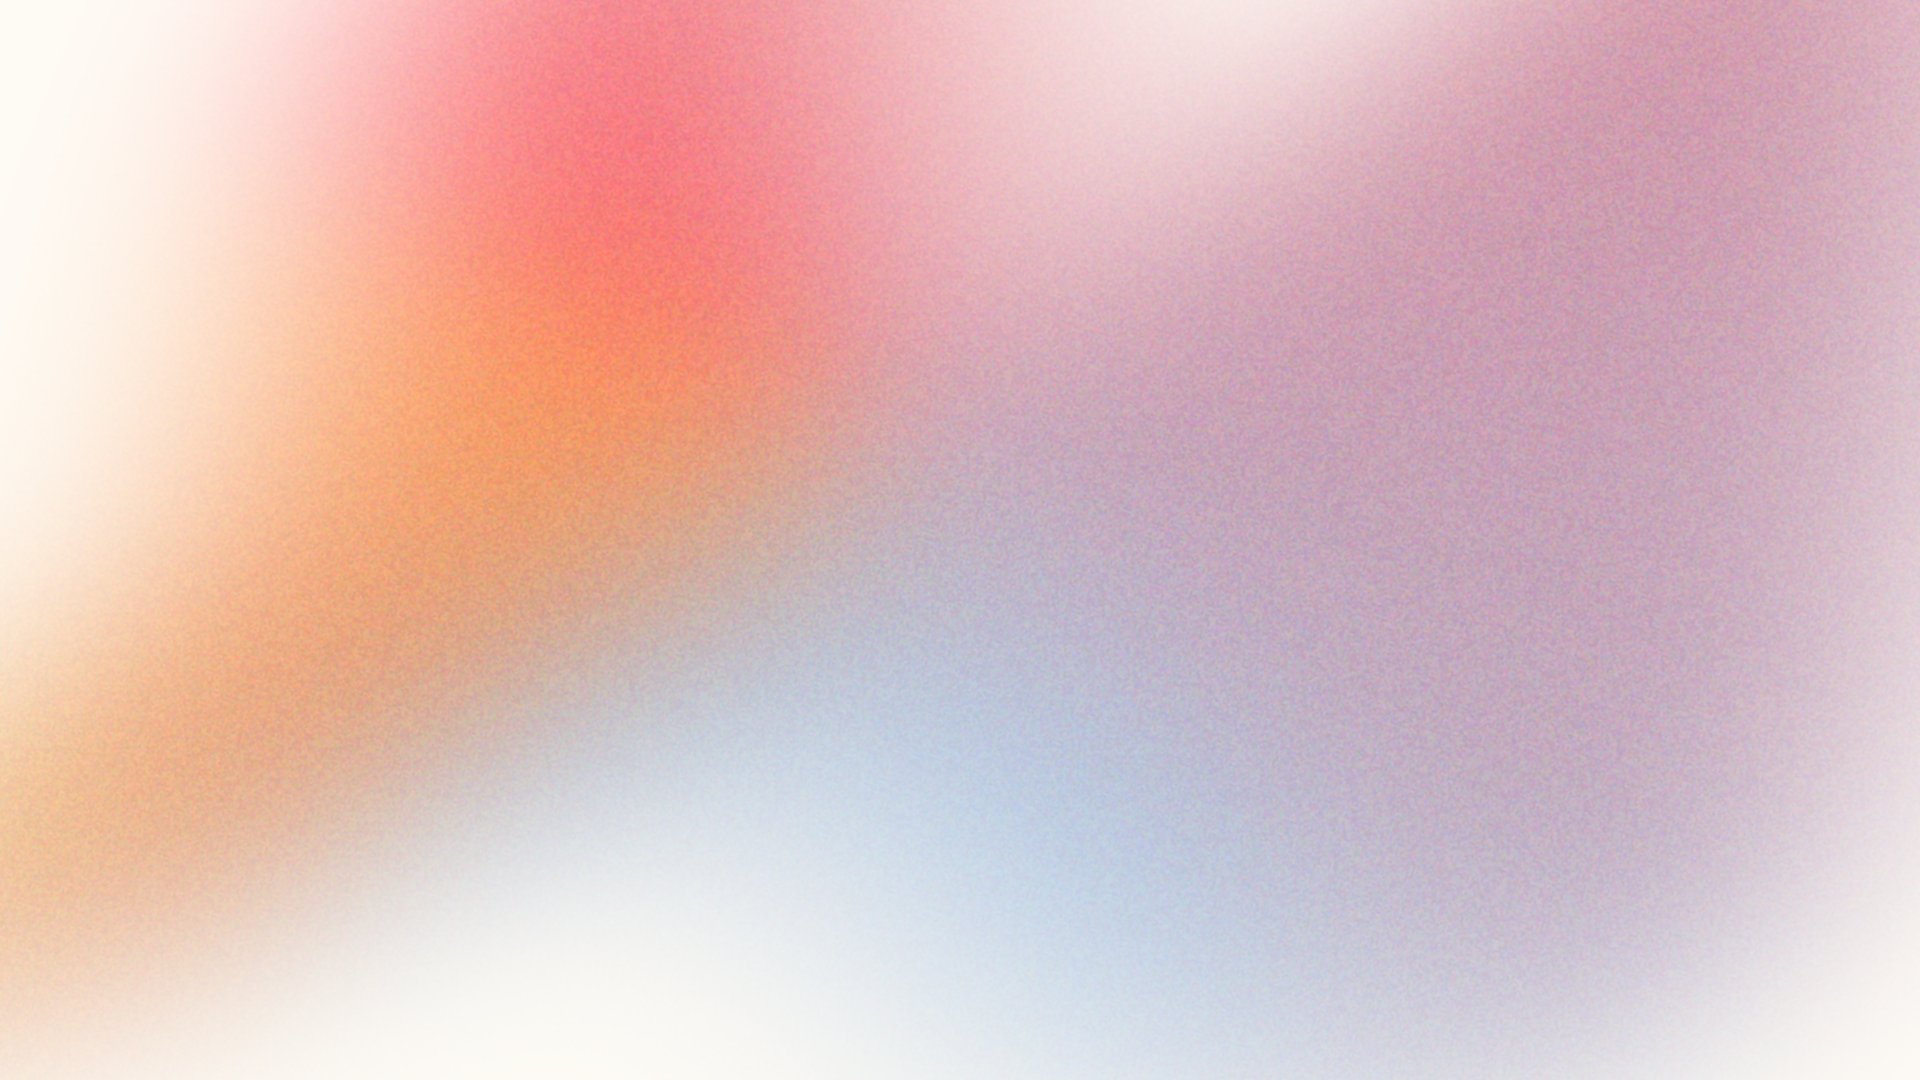
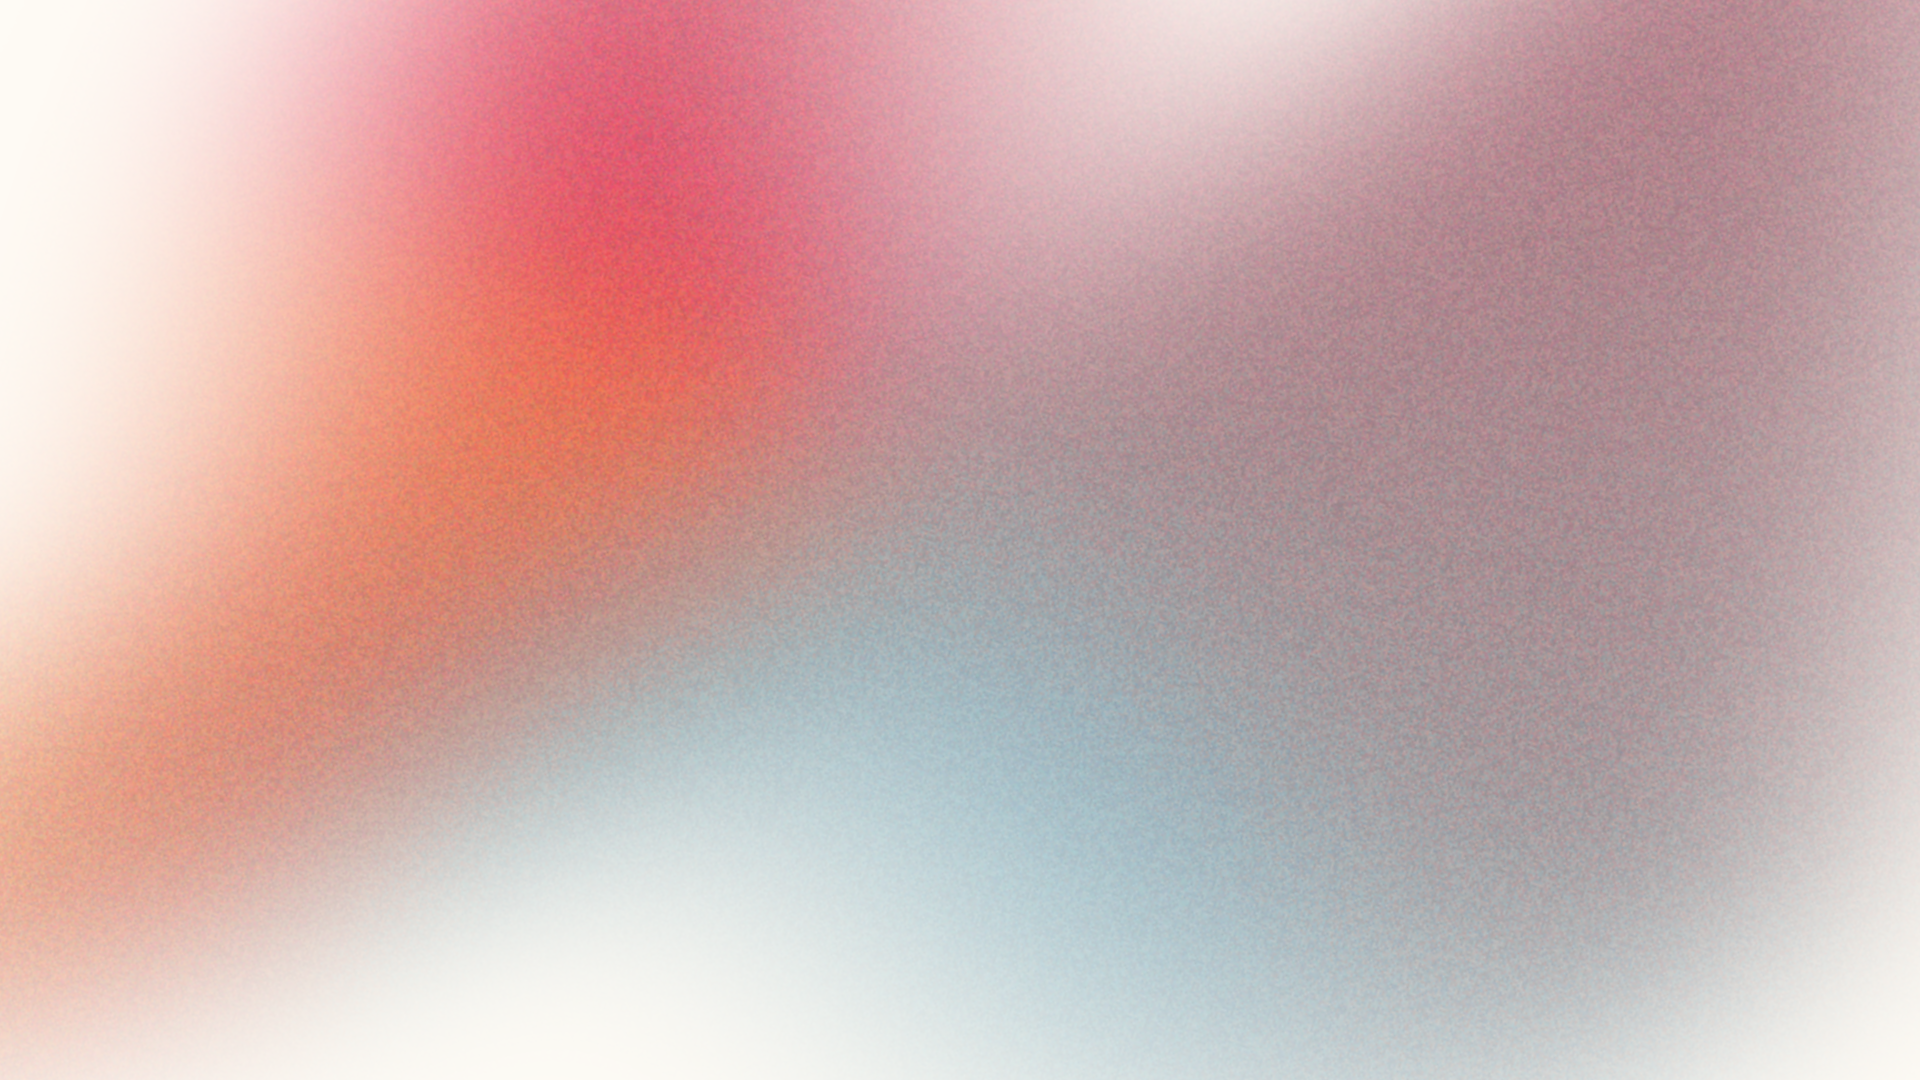
Setup the final layout of the homepage (desktop and mobile)

diff --git a/componenets/HomePost.tsx b/componenets/HomePost.tsx
@@ -23,24 +23,26 @@ export default function HomePost({ post }: { post: Post }) {
   return (
     <>
       {post && (
-        <div className='col-span-2 mx-auto h-fit bord rounded-br-xl'>
-          <p className='float-end w-1/5 block bg-cyan-800 pr-4 text-end'>
-            Latest
-          </p>
-          <div className='w-full abstract h-[20vh] rounded-tl-xl'></div>
-          <Link href={`/posts/${post.id}`}>
-            <h2 className='sm:text-4xl text-2xl px-4 py-2 title'>{title}</h2>
-          </Link>
-          <div className='p-4'>
-            <p className='sm:text-xl hidden sm:block'>{post.body}</p>
-            <p className='sm:text-xl block sm:hidden'>{body}</p>
+        <>
+          <div className='col-span-2 mx-auto h-fit bord rounded-br-xl'>
+            <p className='float-end w-1/5 block bg-cyan-800 pr-4 text-end'>
+              Latest
+            </p>
+            <div className='w-full abstract h-[25vh] rounded-tl-xl'></div>
+            <Link href={`/posts/${post.id}`}>
+              <h2 className='sm:text-4xl text-2xl px-4 py-2 title'>{title}</h2>
+            </Link>
+            <div className='px-4 py-8'>
+              <p className='sm:text-xl hidden sm:block'>{post.body}</p>
+              <p className='sm:text-2xl block sm:hidden'>{body}</p>
+            </div>
+            <HashGrid
+              hashtags={hashtags}
+              visibility={true}
+              handleClick={handleHashtagClick}
+            />
           </div>
-          <HashGrid
-            hashtags={hashtags}
-            visibility={true}
-            handleClick={handleHashtagClick}
-          />
-        </div>
+        </>
       )}
       {!post && <p>There is no content to display</p>}
     </>

diff --git a/pages/index.tsx b/pages/index.tsx
@@ -37,14 +37,14 @@ export default function Home({
       .map(([tag, count]) => ({ tag, count }))
       .sort((a, b) => b.count - a.count)
       .map(({ tag }) => tag)
-      .slice(0, 30);
+      .slice(0, 20);
   }, [otherPosts]);
 
   const handleHashtagClick = (tag: string) => {
     if (hashtag === tag) {
-      router.push({ pathname: '/', query: {} });
+      router.push('/#other');
     } else {
-      router.push({ pathname: '/', query: { hashtag: tag } });
+      router.push(`/?hashtag=${tag}#other`);
     }
   };
 
@@ -56,13 +56,15 @@ export default function Home({
           handleHashtagClick={handleHashtagClick}
         />
         <Container>
-          <div className='flex-col justify-around w-1/3 sm:flex hidden '>
-            <div>
-              <Logo />
-              <UserButtons />
-              <SearchBar handleClick={handleHashtagClick} />
-            </div>
-            <h2 className='m-4'>Buzzing right now:</h2>
+          <div
+            id='lateral'
+            className='sticky top-0 flex-col justify-evenly w-1/3 h-screen md:flex hidden '
+          >
+            <Logo />
+            <UserButtons />
+            <SearchBar handleClick={handleHashtagClick} />
+
+            <h2 className='mx-4'>Buzzing right now:</h2>
             <HashGrid
               hashtags={popularHashtags}
               visibility={true}

diff --git a/componenets/PostsContainer.jsx b/componenets/PostsContainer.jsx
@@ -1,11 +1,18 @@
 import HomePost from './HomePost';
 import PostList from './PostList';
+import ShowMore from './ShowMore';
 
 export default function PostContainer({ mainPost, posts }) {
   return (
-    <div className='grid grid-cols-1 gap-4 px-5 md:px-0 md:w-3/5 pt-6 min-w-96 h-[calc(100vh-2.5rem)]'>
-      <HomePost post={mainPost} />
-      <div className='grid sm:grid-cols-2 gap-4 overflow-scroll no-scrollbar'>
+    <div className='grid grid-cols-1 gap-4 px-5 md:px-0 md:w-3/5 pt-10 min-w-96 min-h-screen'>
+      <div className='sm:h-auto min-h-screen'>
+        <HomePost post={mainPost} />
+        <ShowMore />
+      </div>
+      <div
+        id='other'
+        className='sm:block grid sm:grid-cols-2 gap-4 overflow-scroll no-scrollbar h-[90vh]'
+      >
         <PostList posts={posts} />
       </div>
     </div>

diff --git a/componenets/MobileMenu.tsx b/componenets/MobileMenu.tsx
@@ -16,8 +16,8 @@ export default function MobileMenu({
   const [isOpen, setIsOpen] = useState(false);
 
   const styling = isOpen
-    ? 'fixed top-0 left-0 w-64 h-screen bg-amber-600 z-50 transform transition-transform duration-300 sm:hidden translate-x-0 bg-cyan-800'
-    : 'fixed top-0 left-0 w-64 h-screen bg-amber-600 z-50 transform transition-transform duration-300 sm:hidden -translate-x-full bg-cyan-800';
+    ? 'fixed top-0 left-0 w-64 h-screen bg-amber-600 z-50 transform transition-transform duration-300 sm:hidden translate-x-0 abstract-mono'
+    : 'fixed top-0 left-0 w-64 h-screen bg-amber-600 z-50 transform transition-transform duration-300 sm:hidden -translate-x-full abstract-mono';
 
   return (
     <>

diff --git a/styles/globals.css b/styles/globals.css
@@ -7,6 +7,7 @@
   --border: #686868;
   font-family: Arial, Helvetica, sans-serif;
   scrollbar-gutter: stable;
+  scroll-behavior: smooth;
 }
 
 @layer utilities {
@@ -41,11 +42,19 @@
   }
 
   .flashy {
-    animation: slowly 2400ms ease-in-out alternate infinite;
+    animation: slowly 1500ms ease-in-out alternate infinite;
   }
 
   .abstract {
     background-image: url('/post_bg.png');
+    background-color: #ffffff;
+    background-repeat: no-repeat;
+    background-position: center;
+    background-size: cover;
+  }
+
+  .abstract-mono {
+    background-image: url('/post_bg_mono.png');
     background-color: #ffffff;
     background-repeat: no-repeat;
     background-position: center;

diff --git a/componenets/ShowMore.tsx b/componenets/ShowMore.tsx
@@ -1,0 +1,18 @@
+import Image from 'next/image';
+
+export default function ShowMore() {
+  return (
+    <div className='w-full h-20 col-span-2 my-12 flex flex-col '>
+      <Image
+        src='/show_more_nb.png'
+        alt='show more'
+        width={150}
+        height={20}
+        className='m-auto'
+      />
+      <button className='font-bold flashy'>
+        <a href='#other'>&#11167;</a>
+      </button>
+    </div>
+  );
+}

diff --git a/componenets/Footer.tsx b/componenets/Footer.tsx
@@ -2,7 +2,7 @@ import Link from 'next/link';
 
 export default function Footer({ menu }: { menu: boolean }) {
   return (
-    <div className=' relative text-xs pt-2 mt-4 bottom-0 flex  border-t justify-around'>
+    <div className=' relative text-xs pt-2 mt-2 flex  border-t justify-around'>
       <Link href={'/'} className={menu ? 'text-white' : 'text-cyan-800'}>
         Privacy
       </Link>

diff --git a/componenets/Logo.tsx b/componenets/Logo.tsx
@@ -1,6 +1,6 @@
 export default function Logo() {
   return (
-    <div className='mx-auto w-full text-center py-10 h-min'>
+    <div className='mx-auto w-full text-center h-min'>
       <p className='sm:text-7xl text-2xl'>BlogApp</p>
     </div>
   );

diff --git a/componenets/SearchBar.tsx b/componenets/SearchBar.tsx
@@ -16,7 +16,7 @@ export default function SearchBar({
   return (
     <>
       <form
-        className='text-center py-10 h-min'
+        className='text-center h-min'
         onSubmit={(e) => handleSubmit(e, query)}
       >
         <input
